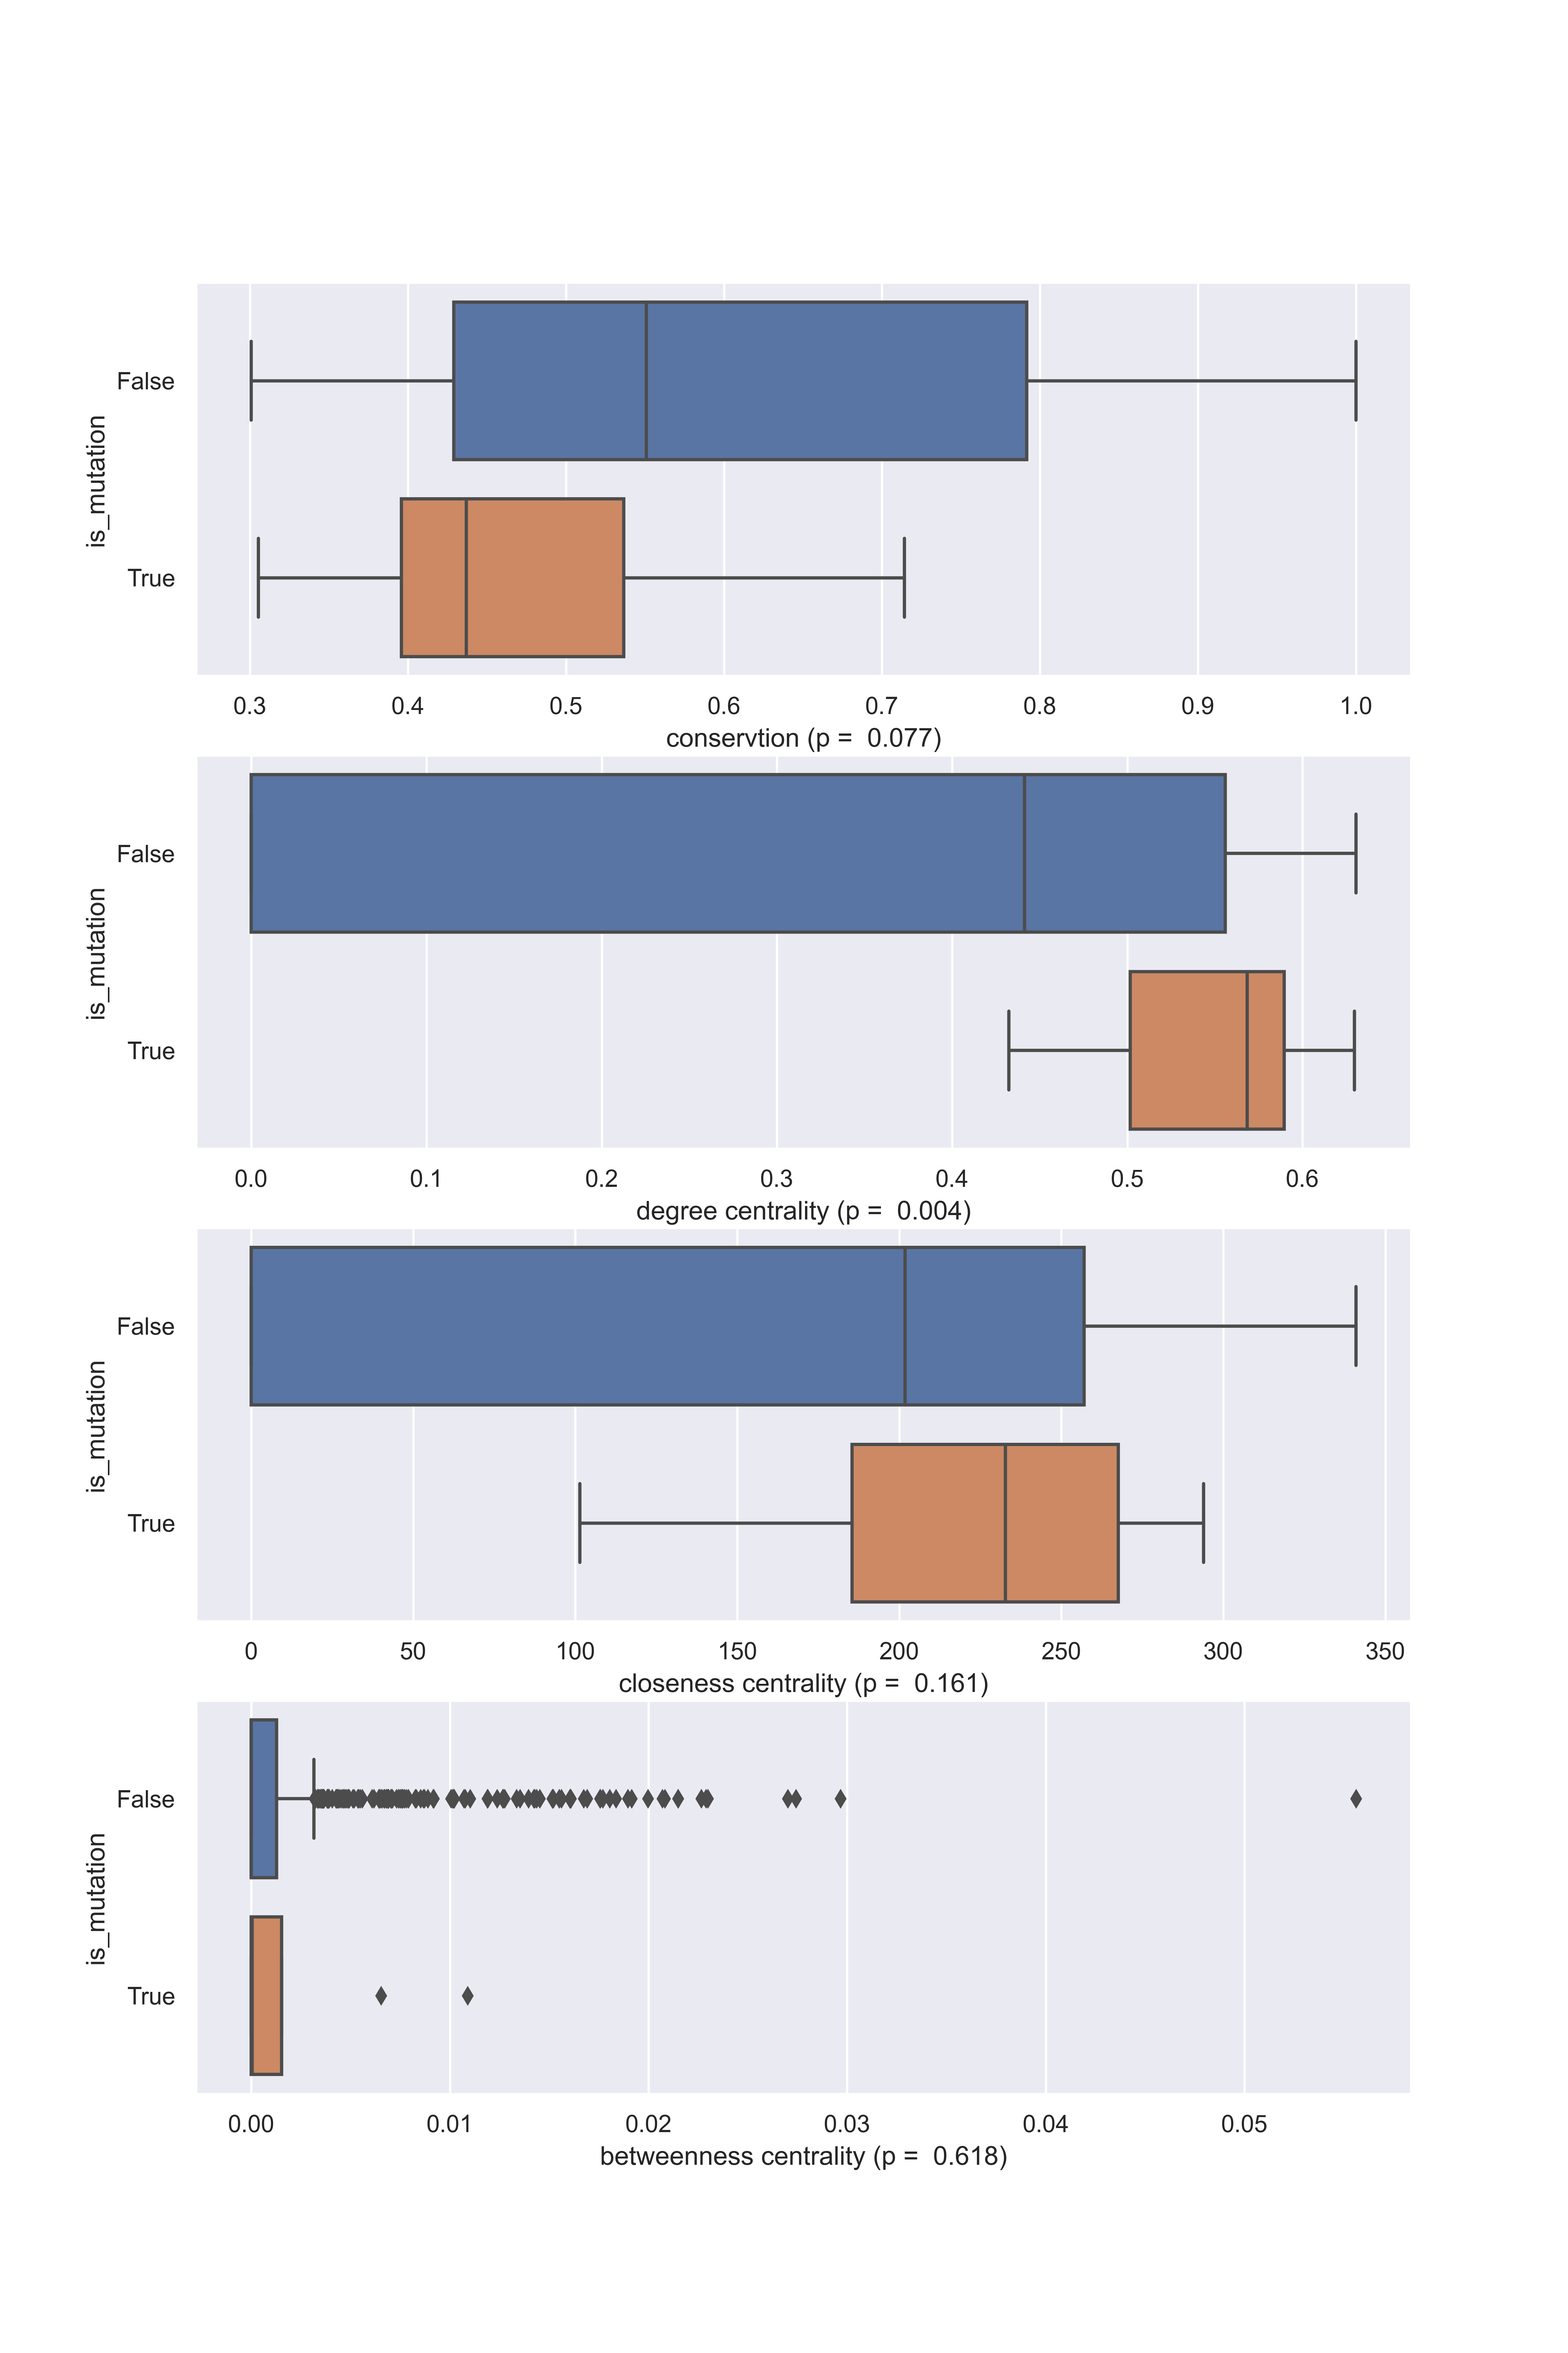
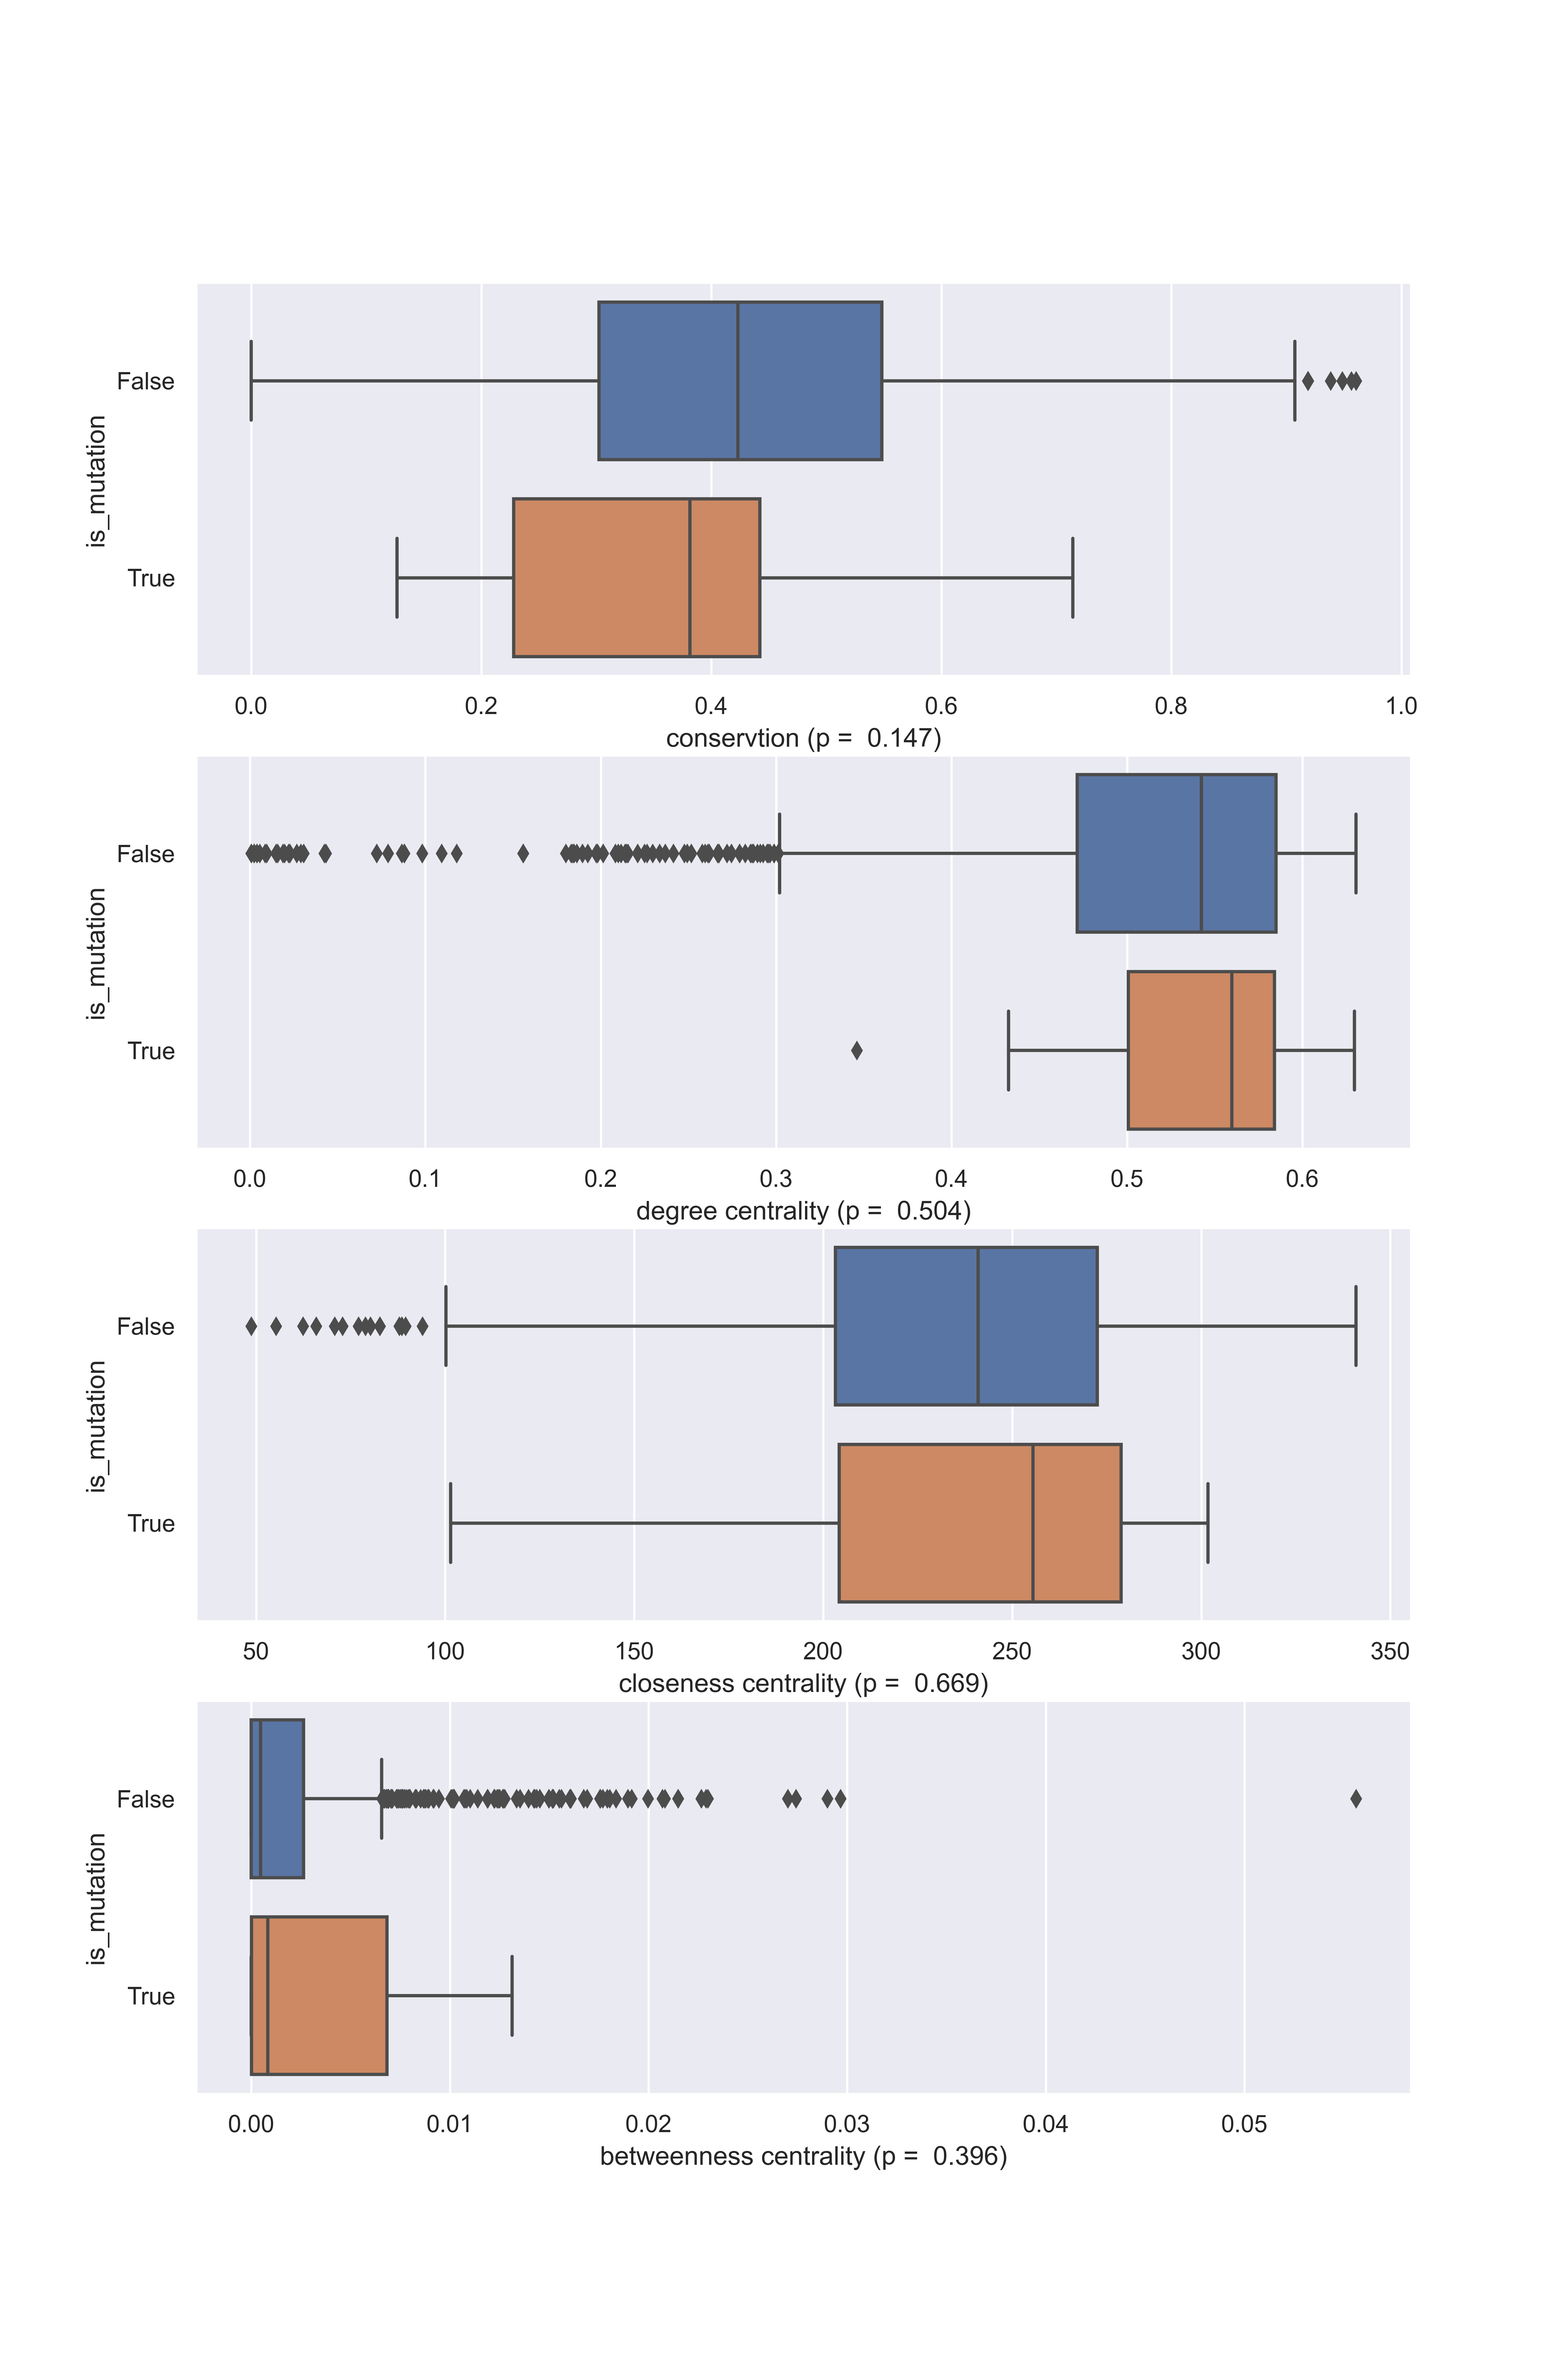
mutation information

diff --git a/v2/output_procon_analysis.py b/v2/output_procon_analysis.py
@@ -199,6 +199,48 @@ class ProConNetwork:
         # 箱线图-三种中心性、保守性
         aas = [self._aa2position(i) for i in group]
 
+    def get_degree(self):
+        degrees = self.G
+        return degrees
+
+    def get_weighted_degree(self):
+        """获得加权度"""
+        degrees = {}
+        # 遍历节点
+        for n, nbrs in self.G.adj.items():
+            # n 节点，nbrs 邻居节点
+            wts = []
+            for nbr, eattr in nbrs.items():
+                # nbr 邻居节点，eatter 边属性
+                wt = eattr["weight"]
+                wts.append(wt)
+            if wts:
+                avg_wt = np.sum(wts)
+            else:
+                avg_wt = 0.0
+            # degrees.append(avg_wt)
+            degrees[n] = avg_wt
+        return degrees
+
+    def get_avg_weighted_degree(self):
+        """获得平均加权度"""
+        degrees = {}
+        # 遍历节点
+        for n, nbrs in self.G.adj.items():
+            # n 节点，nbrs 邻居节点
+            wts = []
+            for nbr, eattr in nbrs.items():
+                # nbr 邻居节点，eatter 边属性
+                wt = eattr["weight"]
+                wts.append(wt)
+            if wts:
+                avg_wt = np.mean(wts)
+            else:
+                avg_wt = 0.0
+            # degrees.append(avg_wt)
+            degrees[n] = avg_wt
+        return degrees
+
     def _plot_degree_distribuition(self, aas):
         # 度分布 degree
         # 使用边的权重的平均值作为度
@@ -304,6 +346,7 @@ class ProConNetwork:
              "betweenness centrality": self.betweenness_c})
         node_data["is_mutation"] = node_data.index.map(lambda x: x in aas)
         node_data = node_data[node_data["degree centrality"] > 0]  # 除去孤立节点
+
         # node_data = node_data[node_data["conservation"] > 0.3]
 
         def cal_p(data: pd.Series, bo: pd.Series):
@@ -311,6 +354,7 @@ class ProConNetwork:
             y = data[bo.apply(lambda x: not x)].to_list()
             p = mannwhitneyu(x, y).pvalue
             return p
+
         fig: plt.Figure
         axes: List[plt.Axes]
         fig, axes = plt.subplots(4, 1, figsize=(10, 15))
@@ -366,7 +410,7 @@ class ProConNetwork:
         fig.show()
         fig.savefig(os.path.join(self.data_dir, "edge_boxplot.png"), dpi=500)
 
-    def _plot_procon_distribution(self,):
+    def _plot_procon_distribution(self, ):
         log.debug("self.type1.min() = %s", self.type1["information"].min())
         log.debug("self.type1.max() = %s", self.type1["information"].max())
         log.debug("self.type2.min() = %s", self.type2["info"].min())
@@ -399,15 +443,45 @@ class ProConNetwork:
         plt.show()
         fig.savefig(os.path.join(self.data_dir, "procon distribution.png"), dpi=500)
 
+    def _collect_mutation_info(self, aas):
+        """收集变异节点信息"""
+        weighted_degrees = self.get_weighted_degree()
+        avg_weighted_degrees = self.get_avg_weighted_degree()
+
+        data = []
+        for aa in aas:
+            # 度
+            degree = self.G.degree[aa]
+            # 加权度
+            w_degree = weighted_degrees[aa]
+            # 加权平均度
+            avg_w_degrees = avg_weighted_degrees[aa]
+            # conservation
+            if aa  in self.type1.position.to_list():
+                conservation = self.type1["information"][self.type1.position == aa].to_list()[0]
+                norm_conservation = self.type1["info_norm"][self.type1.position == aa].to_list()[0]
+            else:
+                log.debug("%s 不在列表中", aa)
+                conservation = 0
+                norm_conservation = 0
+
+            data.append({"aa": aa, "degree": degree, "weighted degree": w_degree, "average weighted degree": avg_w_degrees,
+                         "conservation": conservation, "normalized conservation": norm_conservation})
+
+        data = pd.DataFrame(data)
+        data = data.set_index("aa", drop=False).sort_index()
+        data.to_csv(os.path.join(self.data_dir, "aas_info.csv"))
+
     def analysisG(self, aas: list, groups):
         aas = [self._aa2position(aa) for aa in aas if aa]
         aas = list(set(aas))
         log.debug("aas = %s", aas)
 
+        self._collect_mutation_info(aas)  # 收集变异位点的信息
         self._plot_procon_distribution()  # 分数分布图
         self._plot_degree_distribuition(aas)  # 度分布
         self._plot_node_box(aas, )  # 箱线图：中心性 + 保守性
-        # self._plot_edge_box(aas, groups)  # 共保守性
+        self._plot_edge_box(aas, groups)  # 共保守性
 
 
 if __name__ == '__main__':
@@ -418,8 +492,11 @@ if __name__ == '__main__':
     groups = AnalysisMutationGroup()
     aas = groups.get_non_duplicated_aas()
     log.debug("aas = %s", aas)
+    aas = list(set(aas))
+    for aa in sorted(aas, key=lambda x: int(x[1:-1])):
+        print(aa)
 
-    pcn.analysisG(aas, groups.get_aa_groups())
-
-    end_time = time.time()
-    log.info(f"程序运行时间: {end_time - start_time}")
+    # pcn.analysisG(aas, groups.get_aa_groups())
+    #
+    # end_time = time.time()
+    # log.info(f"程序运行时间: {end_time - start_time}")
